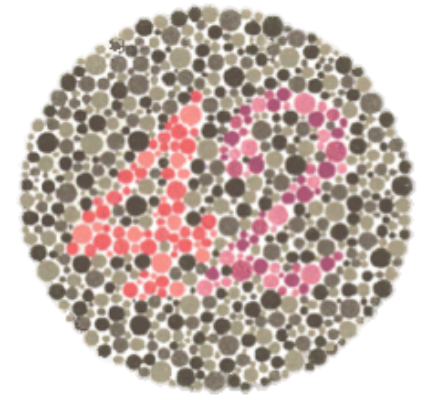
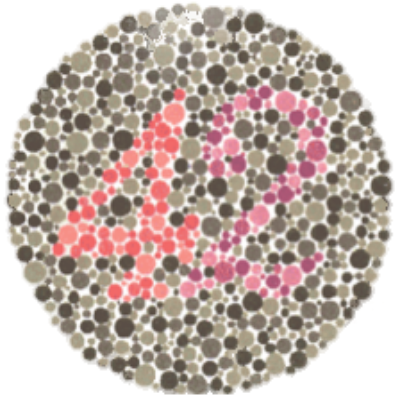
make vision look nicer

diff --git a/sections/vision.html b/sections/vision.html
@@ -5,20 +5,24 @@
       <p>Color blindness affects approximately 1 in 12 men and 1 in 200 women. Look at the following images to determine if you are colorblind</p>
       <div class="features">
         <section>
-          <img src="assets/colorblindness/42.png" width="80%">
-          <div>If you have normal color vision, you see a 42. Red color blind people see a 2. Green color blind people see a 4.</div>
+          <span class="icon major" style="background-color:#312450;color:#ffffff;">1</span>
+          <img src="assets/colorblindness/42.png" width="70%" style="padding-right: 10%;">
+          <div style="padding-right: 15%;">If you have normal color vision, you see a 42. Red color blind people see a 2. Green color blind people see a 4.</div>
         </section>
         <section>
-          <img src="assets/colorblindness/73.png" width="80%">
-          <div>If you have normal color vision, you see a 73. If you are color blind, you do not see a number.</div>
+          <span class="icon major" style="background-color:#312450;color:#ffffff;">2</span>
+          <img src="assets/colorblindness/73.png" width="70%" style="padding-right: 10%;">
+          <div style="padding-right: 15%;">If you have normal color vision, you see a 73. If you are color blind, you do not see a number.</div>
         </section>
         <section>
-          <img src="assets/colorblindness/74.png" width="80%">
-          <div>If you have normal color vision, you see a 74. If you are red/green color blind, you see a 21. If you are totally color blind, you do not see a number.</div>
+          <span class="icon major" style="background-color:#312450;color:#ffffff;">3</span>
+          <img src="assets/colorblindness/74.png" width="70%" style="padding-right: 10%;" >
+          <div style="padding-right: 15%;">If you have normal color vision, you see a 74. If you are red/green color blind, you see a 21. If you are totally color blind, you do not see a number.</div>
         </section>
         <section>
-          <img src="assets/colorblindness/26.png" width="80%">
-          <div>If you have normal color vision, you see a 26. If you are red color blind, you see a 6. If you’re only mildly red color blind, you also see a faint 2. If you are green color blind, you see a 2. If you’re mildly green color blind, you also see a faint 6.</div>
+          <span class="icon major" style="background-color:#312450;color:#ffffff;">4</span>
+          <img src="assets/colorblindness/26.png" width="70%" style="padding-right: 10%;">
+          <div style="padding-right: 15%;">If you have normal color vision, you see a 26. If you are red color blind, you see a 6. If you’re only mildly red color blind, you also see a faint 2. If you are green color blind, you see a 2. If you’re mildly green color blind, you also see a faint 6.</div>
         </section>
       </div>
     </div>

diff --git a/assets/js/pomodomo.js b/assets/js/pomodomo.js
@@ -5,18 +5,21 @@ function pomodomoTimer()
 {
     timeRemaining = 60 * 25;
     $('#time').text(Math.floor(timeRemaining / 60) + ':' + ('0' + timeRemaining % 60).slice(-2));
+    timeRemaining = timeRemaining + 1;
 }
 
 function shortBreakTimer()
 {
     timeRemaining = 60 * 5;
     $('#time').text(Math.floor(timeRemaining / 60) + ':' + ('0' + timeRemaining % 60).slice(-2));
+    timeRemaining = timeRemaining + 1;
 }
 
 function longBreakTimer()
 {
     timeRemaining = 60 * 15;
     $('#time').text(Math.floor(timeRemaining / 60) + ':' + ('0' + timeRemaining % 60).slice(-2));
+    timeRemaining = timeRemaining + 1;
 }
 
 function stopStart()
@@ -46,10 +49,12 @@ function decrementTime()
         $('#time').text(Math.floor(timeRemaining / 60) + ':' + ('0' + timeRemaining % 60).slice(-2));
         if (timeRemaining == 0)
         {
-            stopStart();
+            started = false;
+            timeRemaining = 60 * 25;
+            $('#startStopButton').text('Stopped');
+            $('#startStopButton').css("background-color", "#990000");
             alarm.play();
         }
-        
     }
 }
 
